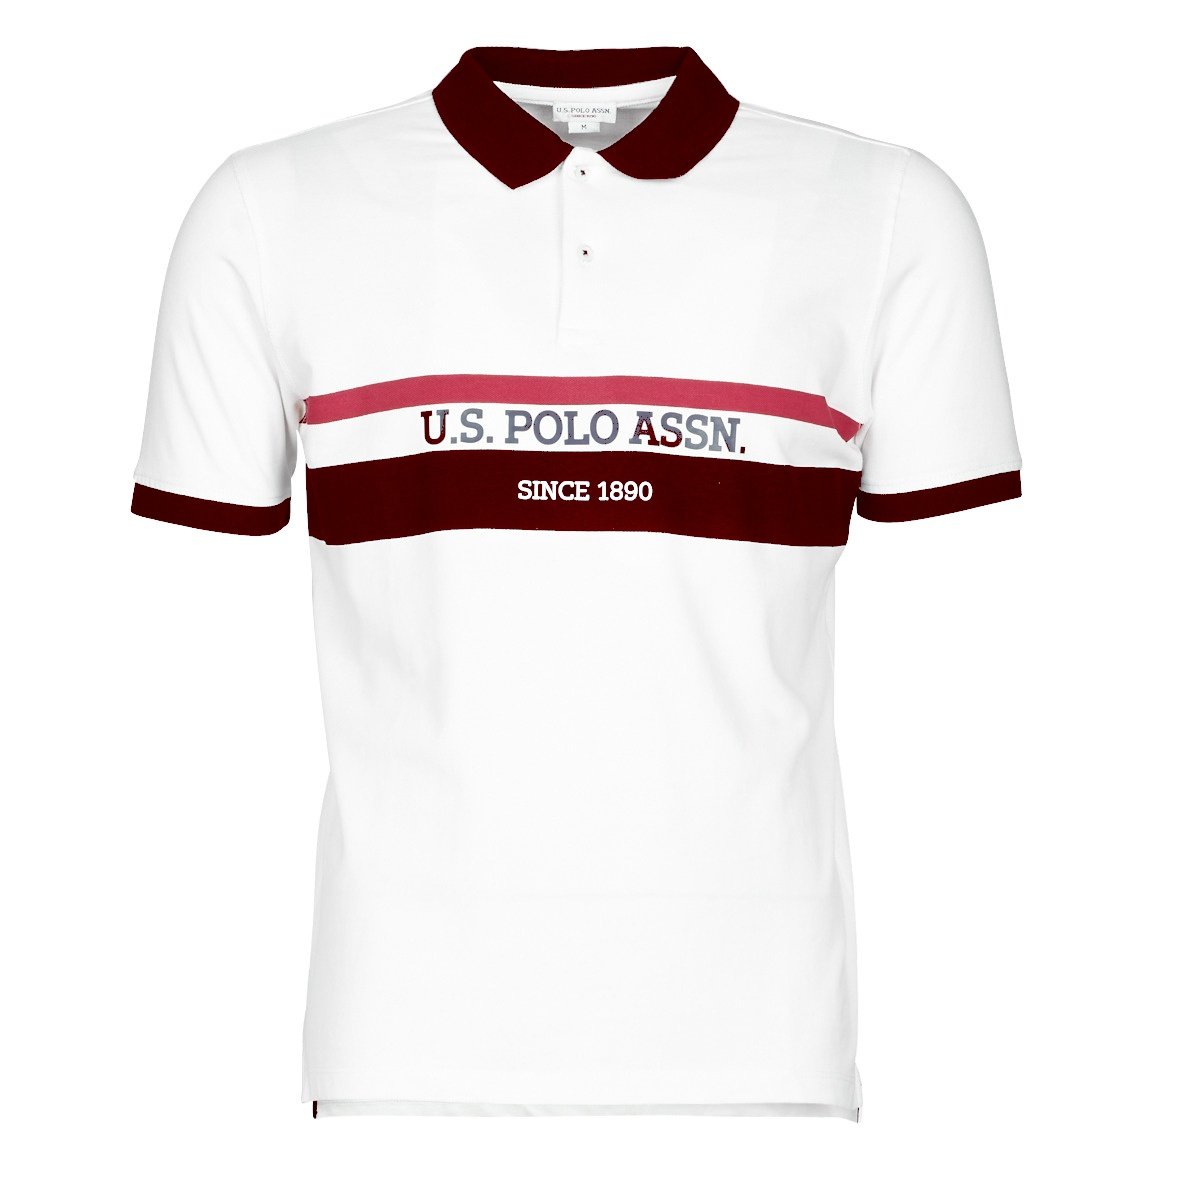
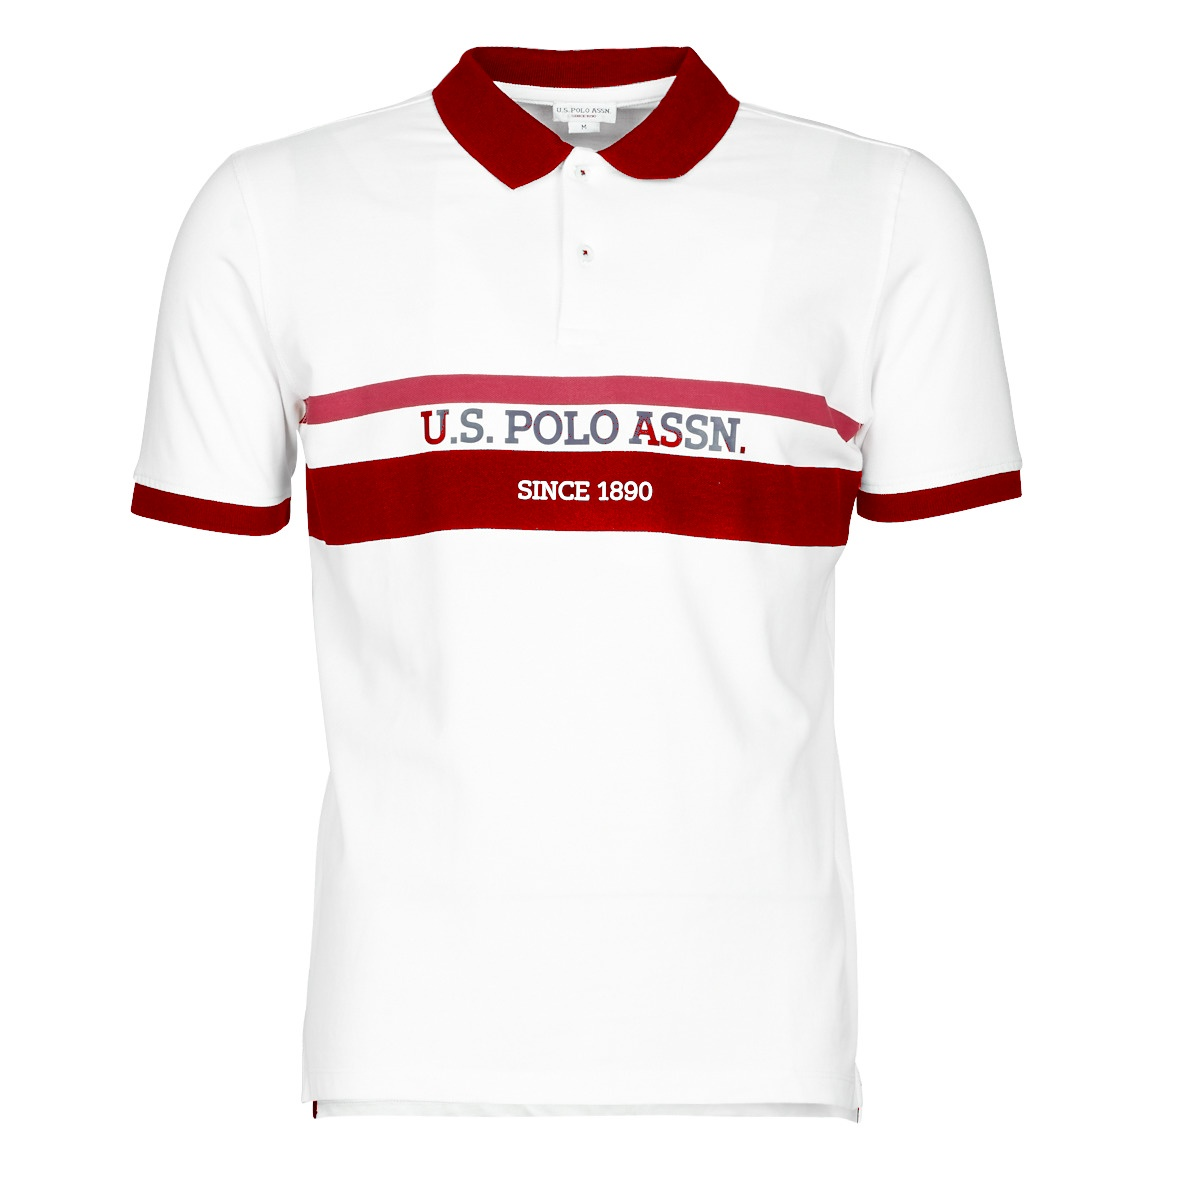
Grayscale Threshold feature added

Changed region(s): [[0.0925, 0.3392, 0.8633, 0.4625], [0.3392, 0.0308, 0.6167, 0.1542]]

diff --git a/main.py b/main.py
@@ -31,11 +31,11 @@ def customize_function(event, x, y, flags, params):
 
 def change_color( s_img, img, color_to_apply):
 
-
     #making mask from the provided label
     mask = cv2.inRange(label,l,l)
     gray_img = cv2.cvtColor(s_img, cv2.COLOR_RGB2GRAY)
-    b,g,r = cv2.split(gray_img)*3
+    temp = np.multiply(grayscale_Threshold, cv2.split(gray_img))
+    b,g,r = temp[0],temp[0],temp[0]
     R = np.multiply(1,r)
     G = np.multiply(0,g)
     B = np.multiply(0,b)
@@ -103,6 +103,7 @@ if __name__ == "__main__":
     #other variables
     no_of_colors = 5
     color_to_apply = (0,0,255)
+    grayscale_Threshold = 2 #should be greater than 1 for image to be light otherwise for a darker variant it should be less than 1 $$
 
     #Pre-process image 
     _,label,center = image_preprocessing(img, no_of_colors) # Kmeans colored image

diff --git a/readIntensity.py b/readIntensity.py
@@ -1,6 +1,5 @@
 import cv2
 import numpy as np
-
 image = cv2.imread('UsPolo.jpg')
 clone = image.copy()
 
@@ -9,7 +8,9 @@ upper = np.array([159,255,255])
 imgHSV = cv2.cvtColor(image, cv2.COLOR_RGB2HSV)
 mask = cv2.inRange(image,lower,upper)
 gray_image = cv2.cvtColor(image, cv2.COLOR_RGB2GRAY)
-b,g,r = cv2.split(gray_image)*3
+temp = (np.multiply(2,cv2.split(gray_image)))
+
+b,g,r = temp[0],temp[0],temp[0]
 R = np.multiply(1,r)
 G = np.multiply(0,g)
 B = np.multiply(0,b)
